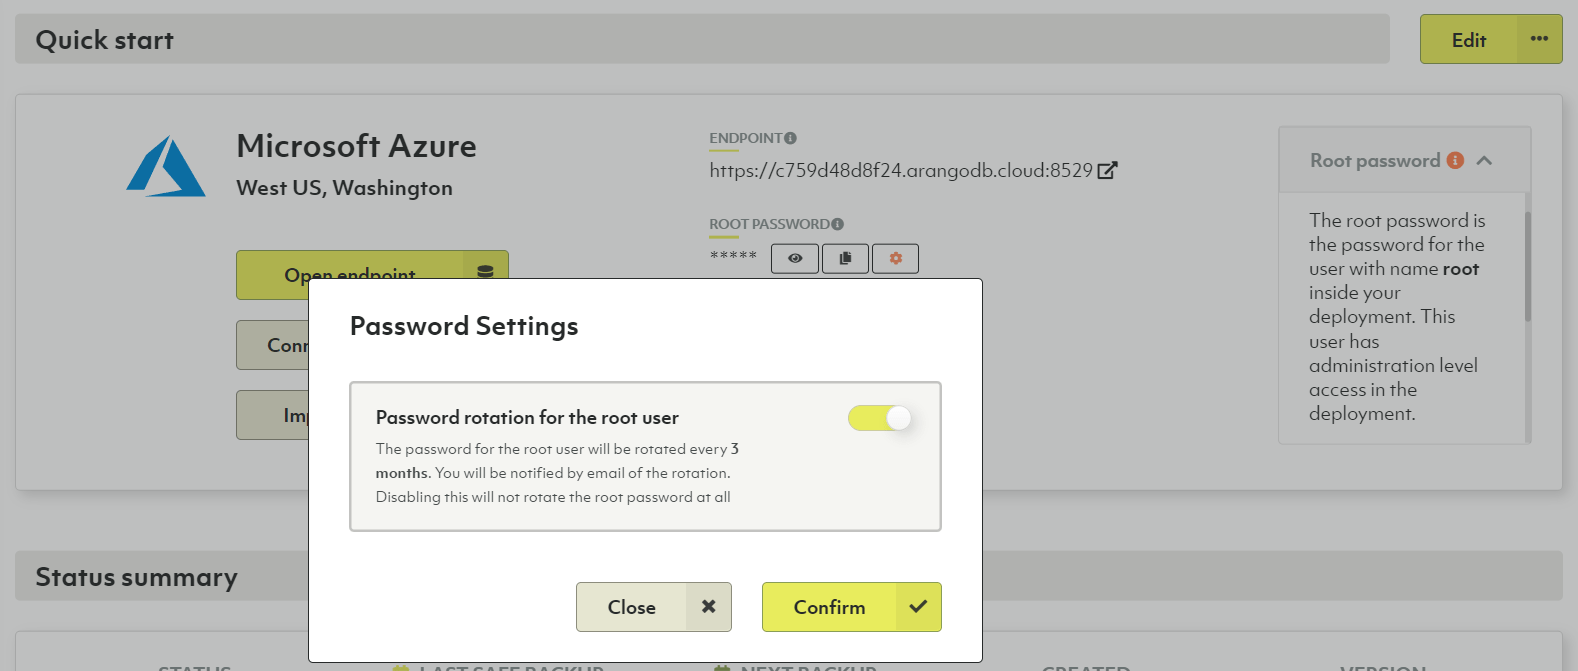
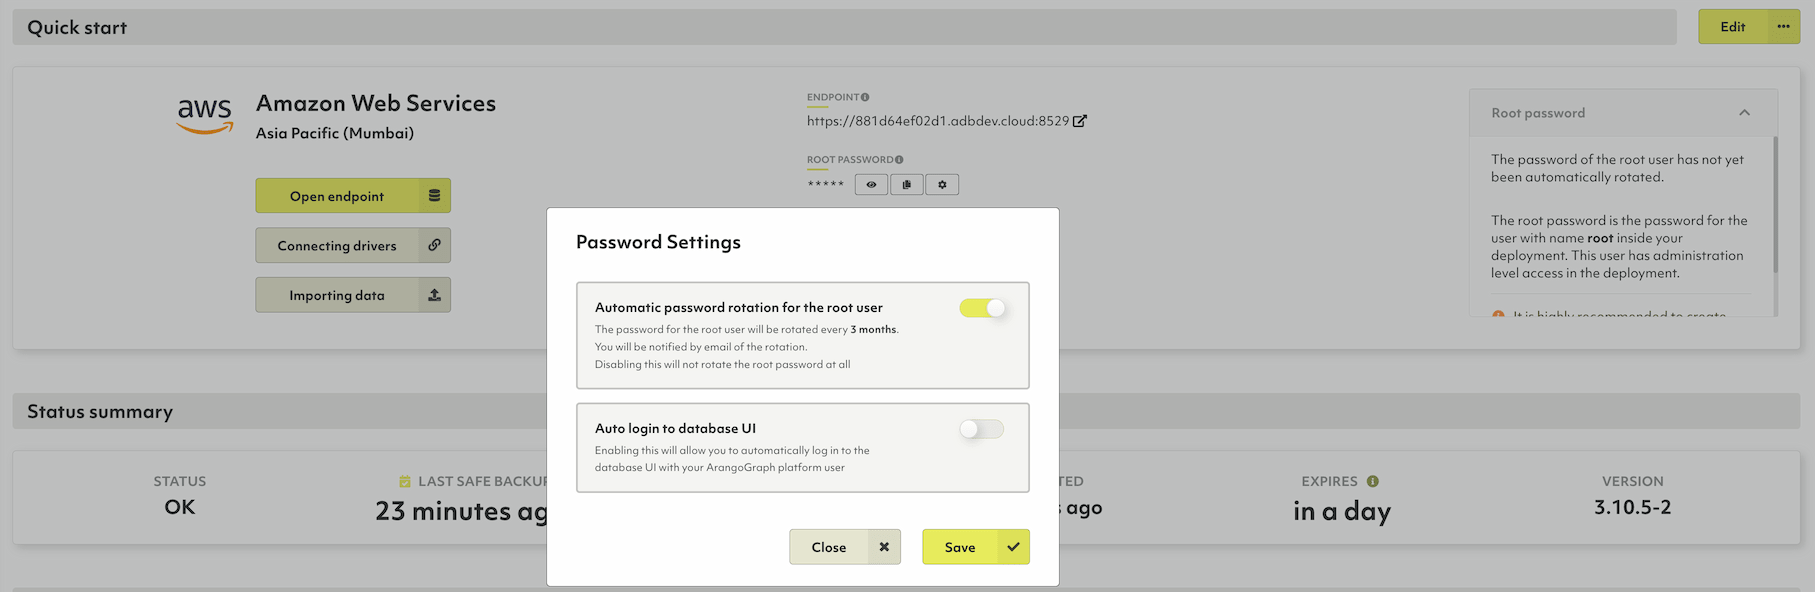
DOC-352 | Auto login to database UI (#1358)
* auto login to database UI

* Compress and reduce size of screenshot

* added permissions and port information

* apply review suggestions

---------

diff --git a/arangograph/deployments.md b/arangograph/deployments.md
@@ -176,23 +176,68 @@ a self-signed certificate is recommended. Read more on the
 [Certificates](certificates.html) page.
 {% endhint %}
 
-## How to enable the root user password rotation
+## Password settings
 
-Password rotation refers to changing passwords regularly - a security best practice
-to reduce the vulnerability to password-based attacks and exploits by limiting
-for how long passwords are valid. The ArangoGraph Insights Platform can automatically change the
-`root` user password of an ArangoDB deployment periodically to improve security.
+### How to enable the automatic root user password rotation
+
+Password rotation refers to changing passwords regularly - a security best
+practice to reduce the vulnerability to password-based attacks and exploits
+by limiting for how long passwords are valid. The ArangoGraph Insights Platform
+can automatically change the `root` user password of an ArangoDB deployment
+periodically to improve security.
 
 1. Navigate to the __Deployment__ for which you want to enable an automatic
    password rotation for the root user.
 2. On the __Overview__ tab, click the button with the __gear__ icon next to the
    __ROOT PASSWORD__.
-3. In the __Password Settings__ dialog, turn the password rotation on and click the
-   __Confirm__ button.
+3. In the __Password Settings__ dialog, turn the automatic password rotation on
+   and click the __Confirm__ button.
 
    ![ArangoGraph Deployment Password Rotation](images/arangograph-deployment-password-rotation.png)
 4. You can expand the __Root password__ panel to see when the password was
    rotated last. The rotation takes place every three months.
+
+### Auto login to database UI
+
+ArangoGraph provides the ability to automatically login to your database using
+your existing ArangoGraph credentials. This not only provides a seamless
+experience, preventing you from having to manage multiple sets of credentials
+but also improves the overall security of your database. As your credentials
+are shared between ArangoGraph and your database, you can benefit from
+end-to-end audit traceability for a given user, as well as integration with
+ArangoGraph SSO.
+
+You can enable this feature in the **Password Settings** dialog. Please note
+that it may take a few minutes to get activated.
+Once enabled, you no longer have to fill in the `root` user and password of
+your ArangoDB deployment.
+
+This feature can be disabled at any time. You may wish to consider explicitly
+disabling this feature in the following situations:
+- Your workflow requires you to access the database UI using different accounts
+  with differing permission sets, as you cannot switch database users when
+  automatic login is enabled.
+- You need to give individuals access to a database's UI without giving them
+  any access to ArangoGraph. Note, however, that it's possible to only give an
+  ArangoGraph user database UI access, without other ArangoGraph permissions.
+- For some reason, you require driver access via `8529` port and you are unable
+  to use the designated `18529` driver port.
+
+Before getting started, make sure you are signed into ArangoGraph as a user
+with one of the following permissions in your project:
+- `data.deployment.full-access`
+- `data.deployment.read-only-access`
+
+Organization owners have these permissions enabled by default.
+The `deployment-full-access-user` and `deployment-read-only-user` roles which
+contain these permissions can also be granted to other members of the
+organization. See how to create a
+[role binding](access-control.html#how-to-view-edit-or-remove-role-bindings-of-a-policy).
+
+{% hint 'warning' %}
+This feature is available on `8529` port only. Make sure your connecting drivers
+are using the `18529` port to avoid breaking changes.
+{% endhint %}
 
 ## How to edit a deployment
 
